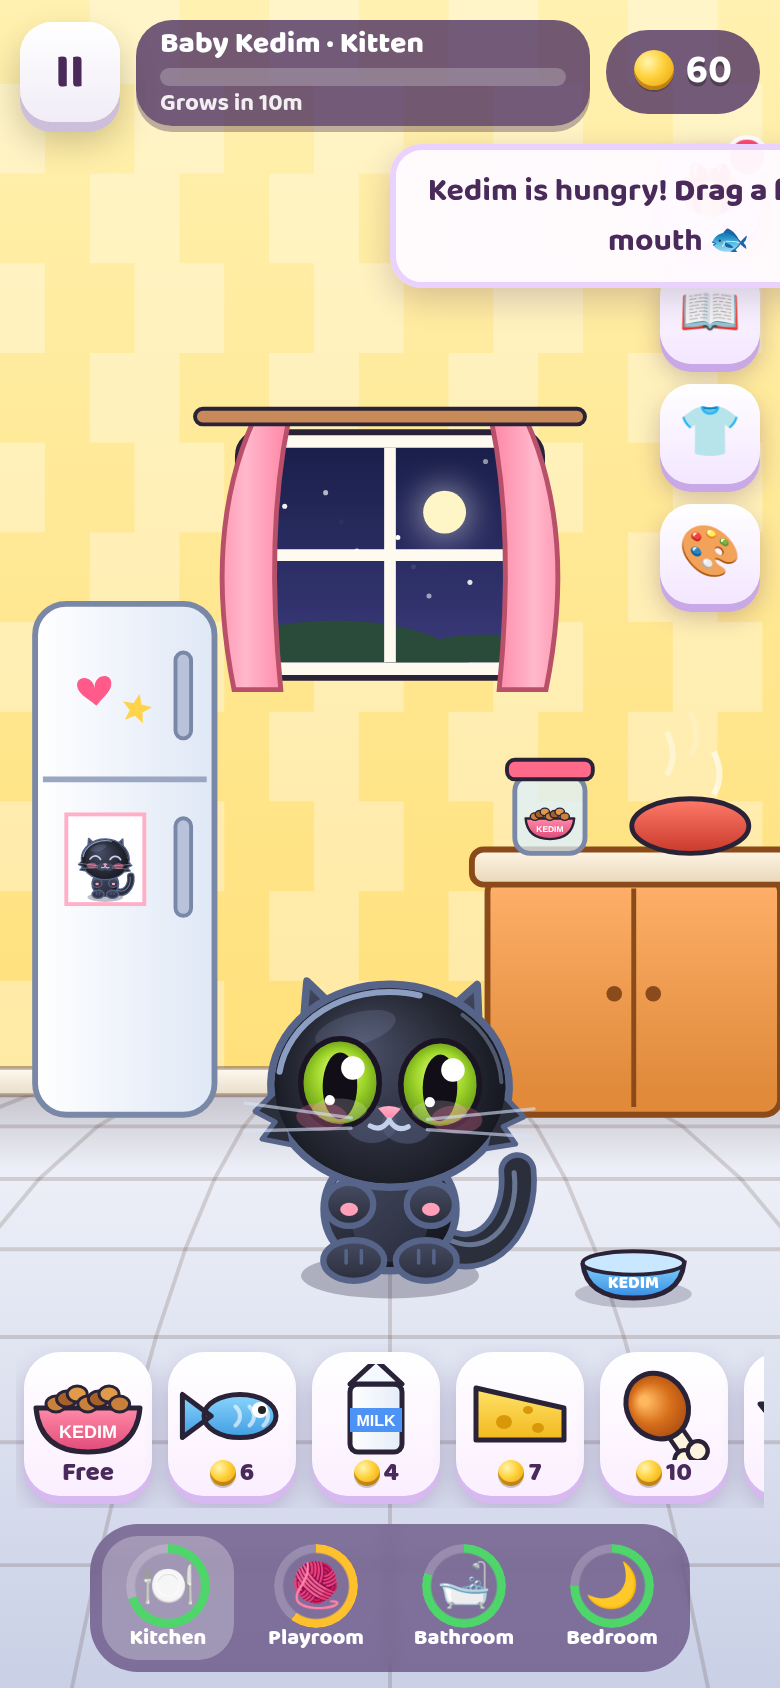
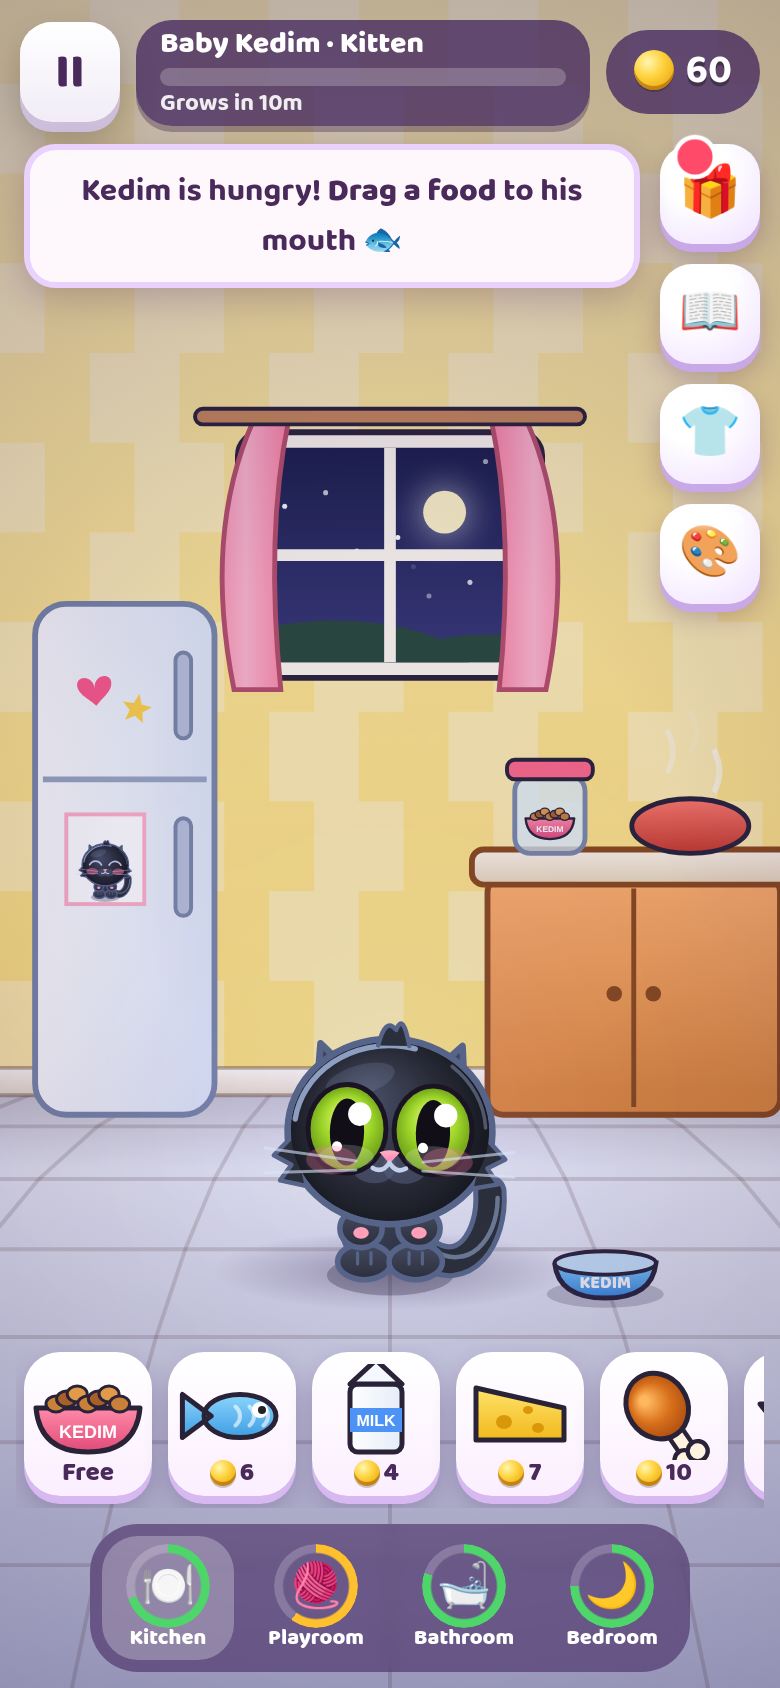
Polish pass: kitten proportions, idle anim, lighting, UI, audio

diff --git a/index.html b/index.html
@@ -169,6 +169,12 @@ body{background:radial-gradient(ellipse at 50% 30%,#fff0f6,#ffc4dc 60%,#d9a8ff)}
  .gpill{max-width:300px}
 }
 
+.screen:not(.hidden){animation:scrIn .32s cubic-bezier(.2,1.4,.4,1)}
+@keyframes scrIn{from{opacity:0;transform:scale(.94)}to{opacity:1;transform:none}}
+.rb:active,.si:active,.tab:active,button:active{transform:scale(.9)!important}
+.rb{background:radial-gradient(circle at 35% 25%,#fff 0,#fff 35%,#efe0ff 100%)}
+.rb::after{content:'';position:absolute;left:8px;right:8px;top:4px;height:10px;border-radius:8px;background:linear-gradient(rgba(255,255,255,.9),rgba(255,255,255,0));pointer-events:none}
+
 </style>
 </head>
 <body>
@@ -343,8 +349,8 @@ function shade(hex, f) { var n = parseInt(hex.slice(1), 16), r = n >> 16, g = (n
 /* ---------- Kedim ---------- */
 var FUR = '#2b2e3b', FUR2 = '#12131a', FURL = '#454b62', RIM = '#9fb4dc', OL = '#56648a', LN = '#c3d0ea', EYE1 = '#eaff86', EYE2 = '#9fd62a';
 var BODY = [ // per stage: body rx, ry, head rx, ry, ear, eye r
-  { brx: 26, bry: 24, hrx: 47, hry: 40, ear: 17, er: 15.5 },
-  { brx: 29, bry: 30, hrx: 44, hry: 38, ear: 18, er: 13.5 },
+  { brx: 21, bry: 18, hrx: 46, hry: 41, ear: 14, er: 17.5 },
+  { brx: 30, bry: 33, hrx: 41, hry: 35, ear: 19, er: 12.5 },
   { brx: 32, bry: 37, hrx: 39, hry: 33, ear: 19, er: 11 },
   { brx: 36, bry: 42, hrx: 37, hry: 31, ear: 19, er: 10 }];
 function kRim(c, x, y, rx, ry) { c.save(); c.strokeStyle = RIM; c.globalAlpha = .85; c.lineWidth = 2.4; c.beginPath(); c.ellipse(x, y, rx - 3, ry - 3, 0, Math.PI * 1.04, Math.PI * 1.58); c.stroke(); c.globalAlpha = .4; c.lineWidth = 1.6; c.beginPath(); c.ellipse(x, y, rx - 3, ry - 3, 0, Math.PI * 1.72, Math.PI * 1.98); c.stroke(); c.restore(); }
@@ -354,14 +360,14 @@ function drawKedim(c, x, y, o) {
   if (form === 'snack') { P.brx = 45; P.bry = 41; } else if (form === 'adventurer') { P.brx = 32; P.bry = 44; }
   var sleep = pose === 'sleep', expr = o.expr || 'idle'; if (sleep) expr = 'sleep';
   var br = sleep ? Math.sin(t * 1.7) * 2.2 : Math.sin(t * 2.4) * 1.2, sq = o.squash || 0;
-  c.save(); c.translate(x, y); var s = o.scale || 1; c.scale(s * (1 + sq * .12), s * (1 - sq * .12)); c.lineJoin = c.lineCap = 'round';
+  c.save(); c.translate(x, y); var s = o.scale || 1; var bs = sleep ? 0 : Math.sin(t * 2.4) * .012; c.scale(s * (1 + sq * .14 - bs), s * (1 - sq * .14 + bs)); c.lineJoin = c.lineCap = 'round';
   if (pose === 'purr') c.translate(Math.sin(t * 55) * .7, 0);
   // shadow
   c.fillStyle = 'rgba(30,20,50,.28)'; ell(c, 0, 2, P.brx * 1.35, 9); c.fill();
   // tail
-  var tw = Math.sin(t * (sleep ? .9 : pose === 'happy' ? 7 : 2.3)) * (pose === 'sulky' ? .08 : .32);
+  var tw = Math.sin(t * (sleep ? .9 : pose === 'happy' ? 7 : 2.3)) * (pose === 'sulky' ? .08 : .32) + (sleep ? 0 : Math.sin(t * 5.3) * Math.max(0, Math.sin(t * .7)) * .18);
   c.save(); c.translate(P.brx * .75, -P.bry * .45); c.rotate((sleep ? 1.1 : .25) + tw);
-  var tl = 26 + st * 6; c.strokeStyle = OL; c.lineWidth = 15; c.beginPath(); c.moveTo(0, 0); c.bezierCurveTo(tl * .8, 4, tl * 1.1, -tl * .7, tl * .8, -tl * 1.4); c.stroke(); c.strokeStyle = FUR; c.lineWidth = 10.5; c.stroke();
+  var tl = 26 + st * 6; c.strokeStyle = OL; c.lineWidth = 15; c.beginPath(); c.moveTo(0, 0); var tc = Math.sin(t * 3.1 + 1) * tl * .25; c.bezierCurveTo(tl * .8, 4, tl * 1.1 + tc, -tl * .7, tl * .8 + tc * 1.6, -tl * 1.4); c.stroke(); c.strokeStyle = FUR; c.lineWidth = 10.5; c.stroke();
   c.strokeStyle = RIM; c.globalAlpha = .55; c.lineWidth = 2; c.beginPath(); c.moveTo(3, -2.5); c.bezierCurveTo(tl * .8, 0, tl * 1.06, -tl * .7, tl * .76, -tl * 1.36); c.stroke(); c.globalAlpha = 1; c.restore();
   // body
   var by = -P.bry - br * .3;
@@ -388,11 +394,12 @@ function drawKedim(c, x, y, o) {
   var hy = by - P.bry - P.hry * .62 + (sleep ? 6 : 0), tilt = sleep ? .22 : pose === 'sulky' ? -.08 : Math.sin(t * .9) * .035 + (o.look || 0) * .06;
   c.save(); c.translate(0, hy); c.rotate(tilt);
   var eb = pose === 'sulky' || sleep ? .25 : 0;
-  for (k = -1; k <= 1; k += 2) { c.save(); c.translate(k * P.hrx * .58, -P.hry * .62); c.rotate(k * (.38 + eb) + (expr === 'happy' ? Math.sin(t * 9) * .06 * k : 0)); var E = P.ear; c.beginPath(); c.moveTo(-E * .72, E * .55); c.quadraticCurveTo(-E * .2, -E * .6, 0, -E); c.quadraticCurveTo(E * .2, -E * .6, E * .72, E * .55); c.closePath(); fs(c, lg(c, 0, -E, 0, E * .6, [FURL, FUR]), 3, OL); c.fillStyle = lg(c, 0, -E * .6, 0, E * .5, ['#ffc4d2', '#ff8fae']); c.beginPath(); c.moveTo(-E * .38, E * .45); c.quadraticCurveTo(0, -E * .55, E * .38, E * .45); c.closePath(); c.fill(); c.restore(); }
+  for (k = -1; k <= 1; k += 2) { c.save(); c.translate(k * P.hrx * .58, -P.hry * .62); var etw = (!sleep && k === ((t / 4.7 | 0) % 2 ? 1 : -1) && (t % 4.7) < .25) ? Math.sin((t % 4.7) / .25 * Math.PI * 2) * .22 : 0; c.rotate(etw + k * (.38 + eb) + (expr === 'happy' ? Math.sin(t * 9) * .06 * k : 0)); var E = P.ear; c.beginPath(); c.moveTo(-E * .72, E * .55); c.quadraticCurveTo(-E * .2, -E * .6, 0, -E); c.quadraticCurveTo(E * .2, -E * .6, E * .72, E * .55); c.closePath(); fs(c, lg(c, 0, -E, 0, E * .6, [FURL, FUR]), 3, OL); c.fillStyle = lg(c, 0, -E * .6, 0, E * .5, ['#ffc4d2', '#ff8fae']); c.beginPath(); c.moveTo(-E * .38, E * .45); c.quadraticCurveTo(0, -E * .55, E * .38, E * .45); c.closePath(); c.fill(); c.restore(); }
   ell(c, 0, 0, P.hrx, P.hry); fs(c, rg(c, 0, 0, 4, P.hrx * 1.1, [FURL, FUR, FUR2], -P.hrx * .25, -P.hry * .35), 3, OL); kRim(c, 0, 0, P.hrx, P.hry);
   // cheek tufts
   c.fillStyle = FUR; for (k = -1; k <= 1; k += 2) { c.beginPath(); c.moveTo(k * (P.hrx - 3), P.hry * .05); c.lineTo(k * (P.hrx + 6), P.hry * .28); c.lineTo(k * (P.hrx - 2), P.hry * .38); c.lineTo(k * (P.hrx + 3), P.hry * .55); c.lineTo(k * (P.hrx - 8), P.hry * .6); c.fill(); c.strokeStyle = OL; c.lineWidth = 2; c.stroke(); }
   ell(c, 0, 0, P.hrx - 1.5, P.hry - 1.5); c.fillStyle = rg(c, 0, 0, 4, P.hrx * 1.1, [FURL, FUR, FUR2], -P.hrx * .25, -P.hry * .35); c.fill(); kRim(c, 0, 0, P.hrx, P.hry);
+  if (st === 0) { c.fillStyle = FUR; c.strokeStyle = OL; c.lineWidth = 2; c.beginPath(); c.moveTo(-6, -P.hry + 3); c.quadraticCurveTo(-3, -P.hry - 10, 2, -P.hry - 4); c.quadraticCurveTo(5, -P.hry - 12, 8, -P.hry + 3); c.fill(); c.stroke(); }
   // head shine
   c.fillStyle = 'rgba(190,210,255,.13)'; ell(c, -P.hrx * .3, -P.hry * .55, P.hrx * .35, P.hry * .16, -.3); c.fill();
   // muzzle
@@ -554,7 +561,7 @@ function drawSide(c, id, x, y, t) {
 /* WebAudio synth: SFX, cat voice, purr, lullaby loop and a talk-back recorder. All made in code. */
 var AU = (function () {
   var ctx = null, master = null, musG = null, on = { snd: 1, mus: 1 }, musT = null, step = 0, nextT = 0, song = null, purrN = null;
-  function init() { if (ctx) { if (ctx.state === 'suspended') ctx.resume(); return; } try { ctx = new (window.AudioContext || window.webkitAudioContext)(); master = ctx.createGain(); master.gain.value = .55; master.connect(ctx.destination); musG = ctx.createGain(); musG.gain.value = .11; musG.connect(master); } catch (e) { ctx = null; } }
+  function init() { if (ctx) { if (ctx.state === 'suspended') ctx.resume(); return; } try { ctx = new (window.AudioContext || window.webkitAudioContext)(); master = ctx.createGain(); master.gain.value = .55; var cmp = ctx.createDynamicsCompressor(); cmp.threshold.value = -16; cmp.ratio.value = 4; var dl = ctx.createDelay(); dl.delayTime.value = .09; var fb = ctx.createGain(); fb.gain.value = .22; var wf = ctx.createBiquadFilter(); wf.type = 'lowpass'; wf.frequency.value = 2400; master.connect(cmp); master.connect(dl); dl.connect(wf); wf.connect(fb); fb.connect(dl); fb.connect(cmp); cmp.connect(ctx.destination); musG = ctx.createGain(); musG.gain.value = .11; musG.connect(master); } catch (e) { ctx = null; } }
   function tone(f, d, type, vol, slide, when, dest) { if (!ctx) return; var t = when || ctx.currentTime, o = ctx.createOscillator(), g = ctx.createGain(); o.type = type || 'sine'; o.frequency.setValueAtTime(f, t); if (slide) o.frequency.exponentialRampToValueAtTime(Math.max(30, f * slide), t + d); g.gain.setValueAtTime(0, t); g.gain.linearRampToValueAtTime(vol || .3, t + .01); g.gain.exponentialRampToValueAtTime(.001, t + d); o.connect(g); g.connect(dest || master); o.start(t); o.stop(t + d + .05); }
   function noise(d, vol, hp, lp) { if (!ctx) return; var n = ctx.sampleRate * d | 0, b = ctx.createBuffer(1, n, ctx.sampleRate), a = b.getChannelData(0); for (var i = 0; i < n; i++) a[i] = (Math.random() * 2 - 1) * (1 - i / n); var s = ctx.createBufferSource(), g = ctx.createGain(), f = ctx.createBiquadFilter(); f.type = lp ? 'lowpass' : 'highpass'; f.frequency.value = lp || hp || 800; s.buffer = b; g.gain.value = vol || .2; s.connect(f); f.connect(g); g.connect(master); s.start(); }
   function meow(p, len) { if (!ctx) return; p = p || 1; len = len || .45; var t = ctx.currentTime, o = ctx.createOscillator(), o2 = ctx.createOscillator(), g = ctx.createGain(), f = ctx.createBiquadFilter(); o.type = 'sawtooth'; o2.type = 'sine'; f.type = 'bandpass'; f.Q.value = 3.5;
@@ -666,8 +673,8 @@ function stageName() { return S.stage === 3 ? FORMS[S.form] || 'Adult' : 'Baby K
 function fmtT(s) { s = Math.max(0, Math.ceil(s)); if (s < 60) return s + 's'; if (s < 3600) return Math.ceil(s / 60) + 'm'; var h = Math.floor(s / 3600), m = Math.round((s % 3600) / 60); return h + 'h' + (m ? ' ' + m + 'm' : ''); }
 function resize() { DPR = Math.min(2, devicePixelRatio || 1); W = innerWidth; H = innerHeight; cv.width = W * DPR | 0; cv.height = H * DPR | 0; SC = W > H ? clamp(H / 470, .6, 1.6) : clamp(Math.min(W / 400, H / 760), .7, 1.6); VW = W / SC; VH = H / SC; }
 function land() { return W > H; }
-function kPos() { var l = land(); return { x: VW / 2 + (l ? -20 : 0), y: l ? VH - 96 : VH - 214, s: (S.stage === 0 ? 1.3 : 1.2) * (l ? .82 : 1) }; }
-function floorY() { return kPos().y - (land() ? 64 : 92); }
+function kPos() { var l = land(); return { x: VW / 2 + (l ? -20 : 0), y: l ? VH - 70 : VH - 214, s: (S.stage === 0 ? 1.15 : S.stage === 1 ? 1.25 : 1.3) * (l ? 1.12 : 1) }; }
+function floorY() { return kPos().y - (land() ? 44 : 92); }
 function L(e) { return { x: e.clientX / SC, y: e.clientY / SC }; }
 function part(x, y, o) { if (G.parts.length > 260) G.parts.shift(); G.parts.push(Object.assign({ x: x, y: y, vx: rnd(-80, 80), vy: rnd(-160, -40), g: 300, life: 1, max: 1, s: 6, col: '#fff', ty: 'dot', rot: rnd(0, 6), vr: rnd(-4, 4) }, o)); }
 function burst(x, y, n, cols, o) { for (var i = 0; i < n; i++) part(x, y, Object.assign({ col: cols[i % cols.length], s: rnd(3, 7), life: rnd(.5, 1), vx: rnd(-200, 200), vy: rnd(-260, -40) }, o || {})); }
@@ -747,6 +754,7 @@ function lighting(c, id, fy, t) {
   var night = hour() < 6 || hour() >= 20 || (id === 'bed' && S.asleep);
   c.save(); c.globalCompositeOperation = 'lighter';
   if (!night) { var gx = VW / 2; c.fillStyle = lg(c, 0, 0, 0, VH, ['rgba(255,240,200,.16)', 'rgba(255,240,200,0)']); c.beginPath(); c.moveTo(gx - 80, 60); c.lineTo(gx + 80, 60); c.lineTo(gx + 200, VH); c.lineTo(gx - 60, VH); c.closePath(); c.fill(); }
+  if (!night) { c.fillStyle = 'rgba(255,236,190,.10)'; c.beginPath(); c.ellipse(VW / 2 + 40, kPos().y - 10, 150, 30, 0, 0, TAU); c.fill(); for (var di = 0; di < 14; di++) { var dx = (di * 97.3 + t * (6 + di % 3 * 3)) % VW, dy = 80 + ((di * 61.7 + t * (4 + di % 4)) % (VH * .7)); c.globalAlpha = .25 + .25 * Math.sin(t * 1.3 + di); c.fillStyle = '#fff6d8'; c.beginPath(); c.arc(dx, dy, 1.2 + di % 3 * .6, 0, TAU); c.fill(); } c.globalAlpha = 1; }
   var kp = kPos(); glow(c, kp.x, kp.y - 80, 210, night ? '#6a6aff' : '#fff2d8', night ? .10 : .22);
   c.restore();
   var v = c.createRadialGradient(VW / 2, VH * .5, Math.min(VW, VH) * .35, VW / 2, VH * .5, Math.max(VW, VH) * .75); v.addColorStop(0, 'rgba(60,20,80,0)'); v.addColorStop(1, night ? 'rgba(20,10,60,.38)' : 'rgba(80,30,90,.22)'); c.fillStyle = v; c.fillRect(0, 0, VW, VH);
@@ -767,6 +775,8 @@ function kedimOpts(t) {
 function drawKedimRoom(c, t) {
   var kp = kPos(), o = kedimOpts(t), jy = 0;
   if (G.reactT > 0 && (G.react === 'happy' || G.react === 'laugh')) jy = -Math.abs(Math.sin(G.reactT * 9)) * 14;
+  var ao = c.createRadialGradient(kp.x, kp.y, 4, kp.x, kp.y, 80 * kp.s); ao.addColorStop(0, 'rgba(40,20,60,.32)'); ao.addColorStop(1, 'rgba(40,20,60,0)'); c.fillStyle = ao; c.save(); c.translate(kp.x, kp.y); c.scale(1, .22); c.translate(-kp.x, -kp.y); c.beginPath(); c.arc(kp.x, kp.y, 80 * kp.s, 0, TAU); c.fill(); c.restore();
+  if (jy < 0) o.squash = Math.max(o.squash || 0, jy > -4 ? .5 : -.25);
   var gm = drawKedim(c, kp.x, kp.y + jy, o);
   KG = { x: kp.x, y: kp.y, hx: kp.x, hy: kp.y + gm.headY * kp.s, hr: 44 * kp.s, mx: kp.x, my: kp.y + gm.mouthY * kp.s, by: kp.y + gm.bodyY * kp.s, top: kp.y + gm.top * kp.s, w: gm.w * kp.s };
   G.bubbles.forEach(function (b) { var x = kp.x + b.x * kp.s, y = kp.y + b.y * kp.s, r = b.r * (b.pop ? 1 + (1 - b.pop) * .6 : 1); c.globalAlpha = b.pop ? Math.max(0, b.pop) : 1; ell(c, x, y, r, r); c.fillStyle = 'rgba(255,255,255,.6)'; c.fill(); c.strokeStyle = 'rgba(150,200,255,.95)'; c.lineWidth = 1.6; c.stroke(); c.fillStyle = '#fff'; ell(c, x - r * .35, y - r * .35, r * .25, r * .25); c.fill(); c.globalAlpha = 1; });
@@ -798,7 +808,7 @@ function update(dt) {
     if (G.st === 'room' && checkStage()) showStage();
   }
   G.slide *= Math.pow(.0005, dt); if (Math.abs(G.slide) < .002) G.slide = 0;
-  G.blinkT -= dt; if (G.blinkT < 0) { G.blink = .12; G.blinkT = rnd(2, 5); } G.blink -= dt;
+  G.blinkT -= dt; if (G.blinkT < 0) { G.blink = .12; G.blinkT = Math.random() < .25 ? .22 : rnd(2, 5); } G.blink -= dt;
   G.reactT -= dt; G.talk -= dt; G.listen -= dt; G.wet -= dt; G.sq *= Math.pow(.002, dt);
   if (G.eat > 0) { var pe = G.eat; G.eat -= dt; if (G.eat <= 0) finishEat(); else if ((G.eat * 4 | 0) !== (pe * 4 | 0) && KG) { AU.sfx('chomp'); burst(KG.mx, KG.my, 4, ['#e0a060', '#c9803a', '#fff3a0'], { s: 4, g: 500, vy: rnd(-120, -40) }); } }
   if (G.shower > 0) { G.shower -= dt; if (G.bubbles.length) { var b = G.bubbles[Math.random() * G.bubbles.length | 0]; if (!b.pop) b.pop = 1; } if (G.shower <= 0) finishShower(); }
